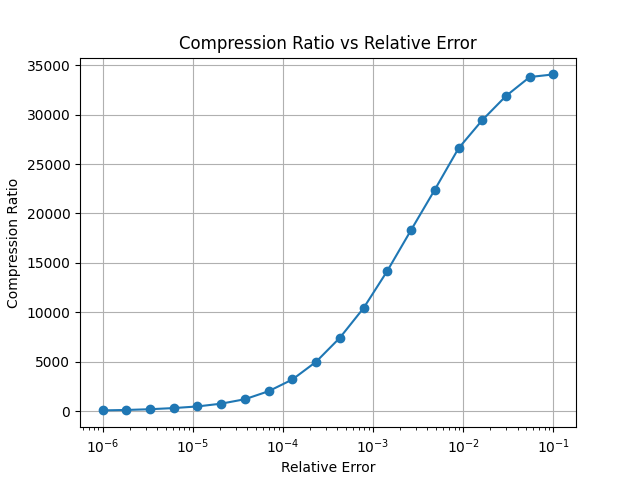
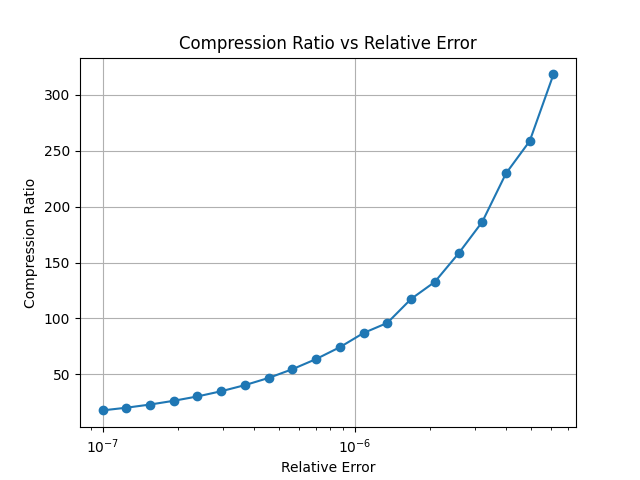
changed rel range for cr

diff --git a/run_pressio_pipeline.py b/run_pressio_pipeline.py
@@ -5,6 +5,7 @@ import pandas as pd
 import matplotlib.pyplot as plt
 import csv
 import numpy as np
+import glob
 
 input_file = "/home/ziweiq2/LibPressio/dataset/SDRBENCH-EXASKY-NYX-512x512x512/baryon_density.f32"
 dims = [512, 512, 512]
@@ -15,9 +16,52 @@ rel_errors = np.logspace(-6, -1, num=20).tolist()
 rel_errors = sorted(list(set(rel_errors)), reverse=True) 
 external_script = "halo_dual_pressio.py"
 pressio = "pressio"
-
+rel_errors_cr=np.logspace(-7, np.log10(6.15e-6), num=20)
 
 csv_rows = []
+csv_rows_cr=[]
+for rel in rel_errors_cr:
+    print(f"\n===== Running rel={rel} =====")
+
+    pressio_cmd = [
+        pressio,
+        "-i", input_file,
+        "-d", str(dims[0]), "-d", str(dims[1]), "-d", str(dims[2]),
+        "-t", "float",
+        "sz3", "-o", f"rel={rel}",
+        "-m", "error_stat", "-m", "size", "-m", "external",
+        "-M", "all",
+        "-o", "external:use_many=1",
+        "-o", f"external:command=python3 {external_script} --external_exe {halo_exe}"
+    ]
+
+    pressio_out = subprocess.run(pressio_cmd, check=True, capture_output=True, text=True)
+
+
+    comp_ratio = None
+    for line in pressio_out.stderr.splitlines():
+        if "size:compression_ratio" in line:
+            try:
+                comp_ratio = float(line.split("=")[1].strip())
+            except:
+                comp_ratio = None
+            break
+
+    if comp_ratio is None:
+        print("⚠  Warning: compression_ratio not found for this rel. Check if -m size is enabled.")
+    else:
+        print(f"✅ compression_ratio = {comp_ratio}")
+    csv_rows_cr.append([rel,comp_ratio])
+    
+    os.rename("halo_original.csv", f"halo_original_rel{rel}.csv")
+    os.rename("halo_decompressed.csv", f"halo_decompressed_rel{rel}.csv")
+    os.rename("halo_metrics.csv", f"halo_metrics_rel{rel}.csv") 
+
+
+        # print("✅ Deleted all halo_metrics_rel*.csv files")
+        
+        
+
 for rel in rel_errors:
     print(f"\n===== Running rel={rel} =====")
 
@@ -36,20 +80,7 @@ for rel in rel_errors:
     # ✅ Run Pressio and capture output
     pressio_out = subprocess.run(pressio_cmd, check=True, capture_output=True, text=True)
 
-    # ✅ Parse compression_ratio from pressio output
-    comp_ratio = None
-    for line in pressio_out.stderr.splitlines():
-        if "size:compression_ratio" in line:
-            try:
-                comp_ratio = float(line.split("=")[1].strip())
-            except:
-                comp_ratio = None
-            break
 
-    if comp_ratio is None:
-        print("⚠  Warning: compression_ratio not found for this rel. Check if -m size is enabled.")
-    else:
-        print(f"✅ compression_ratio = {comp_ratio}")
 
 
 
@@ -60,11 +91,13 @@ for rel in rel_errors:
         p90 = float(r["p90"])
         p99 = float(r["p99"])
         wdist = float(r["wasserstein"])
+        p999 = float(r["p999"])
+        max = float(r["max"])
 
 
 
-    # csv_rows.append([rel, mean, median, p90, p99, wdist])
-    csv_rows.append([rel, mean, median, p90, p99, wdist, comp_ratio])
+
+    csv_rows.append([rel, mean, median, p90, p99,p999, wdist,max])
 
     os.rename("halo_original.csv", f"halo_original_rel{rel}.csv")
     os.rename("halo_decompressed.csv", f"halo_decompressed_rel{rel}.csv")
@@ -75,10 +108,16 @@ for rel in rel_errors:
             os.remove(f)
 
 
-# df = pd.DataFrame(csv_rows, columns=["rel_error", "mean", "median", "p90", "p99", "wasserstein"])
-df = pd.DataFrame(csv_rows, columns=["rel_error", "mean", "median", "p90", "p99", "wasserstein", "compression_ratio"])  # ✅ NEW
+
+for pattern in ["halo_metrics_rel*.csv", "halo_decompressed_rel*.csv", "halo_original_rel*.csv"]:
+    for f in glob.glob(pattern):
+        os.remove(f)
+        print(f"✅ Deleted {f}")
+df = pd.DataFrame(csv_rows, columns=[ "rel_error","mean", "median", "p90", "p99","p999","wasserstein","max" ]) 
+df_cr = pd.DataFrame(csv_rows_cr,columns=["rel_errors_cr","compression_ratio"])
 df.to_csv("metrics_summary.csv", index=False)
-print("\n✅ Saved metrics_summary.csv")
+df_cr.to_csv("metrics_summary_cr.csv", index=False)
+
 
 
 plot_dir = "metrics_plots"
@@ -95,11 +134,22 @@ def plot_metric(col_name, filename, ylabel):
     plt.savefig(os.path.join(plot_dir, filename))
     plt.close()
 
+def plot_metric_cr(col_name, filename, ylabel):
+    plt.figure()
+    plt.plot(df_cr["rel_errors_cr"], df_cr[col_name], marker="o")
+    plt.xscale("log")
+    plt.xlabel("Relative Error")
+    plt.ylabel(ylabel)
+    plt.title(f"{ylabel} vs Relative Error")
+    plt.grid()
+    plt.savefig(os.path.join(plot_dir, filename))
+    plt.close()
+    
 plot_metric("mean", "mean_vs_relerror.png", "Mean NN Distance")
 plot_metric("median", "median_vs_relerror.png", "Median NN Distance")
 plot_metric("p90", "p90_vs_relerror.png", "90% NN Distance")
 plot_metric("p99", "p99_vs_relerror.png", "99% NN Distance")
+plot_metric("p999", "p999_vs_relerror.png", "99.9% NN Distance")
 plot_metric("wasserstein", "wasserstein_vs_relerror.png", "Wasserstein Mass Distance")
-plot_metric("compression_ratio", "compression_ratio_vs_relerror.png", "Compression Ratio")  
-
-
+plot_metric("max","max_vs_relerror.png","Maximum Distance")
+plot_metric_cr("compression_ratio", "compression_ratio_vs_relerror.png", "Compression Ratio")  

diff --git a/halo_dual_pressio.py b/halo_dual_pressio.py
@@ -96,10 +96,10 @@ def compute_metrics(df_orig: pd.DataFrame, df_dec: pd.DataFrame):
     p99    = float(np.percentile(dists, 99))
     dmax   = float(np.max(dists))
     wmass  = float(wasserstein_distance(mass_orig, mass_dec))
-
+    p999   = float(np.percentile(dists, 99.9)) 
     return {
         "mean": mean, "median": median, "p90": p90, "p99": p99, "max": dmax,
-        "w_mass": wmass,
+        "w_mass": wmass,"p999": p999,
         "num_halos_orig": int(len(df_orig)),
         "num_halos_decomp": int(len(df_dec)),
     }
@@ -142,15 +142,16 @@ def main():
     print(f"90%:   {m['p90']:.4f}")
     print(f"99%:   {m['p99']:.4f}")
     print(f"Max:   {m['max']:.4f}")
+    print(f"99.9%: {m['p999']:.4f}" )
     print(f"Wasserstein Distance between mass distributions: {m['w_mass']}")
 
 
     out_row = [[
         m["num_halos_orig"], m["num_halos_decomp"],
-        m["mean"], m["median"], m["p90"], m["p99"], m["w_mass"]
+        m["mean"], m["median"], m["p90"], m["p99"], m["w_mass"],m['max'],m['p999']
     ]]
     pd.DataFrame(out_row, columns=[
-        "num_halos_orig","num_halos_decomp","mean","median","p90","p99","wasserstein"
+        "num_halos_orig","num_halos_decomp","mean","median","p90","p99","wasserstein","max","p999"
     ]).to_csv("halo_metrics.csv", index=False)
 
 
